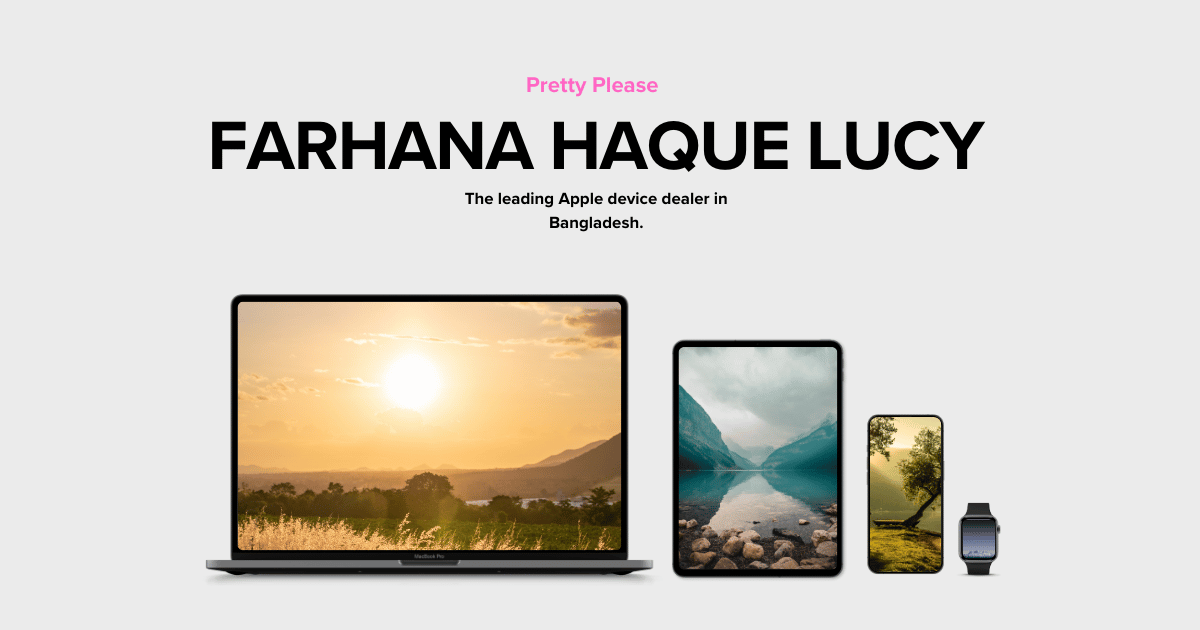
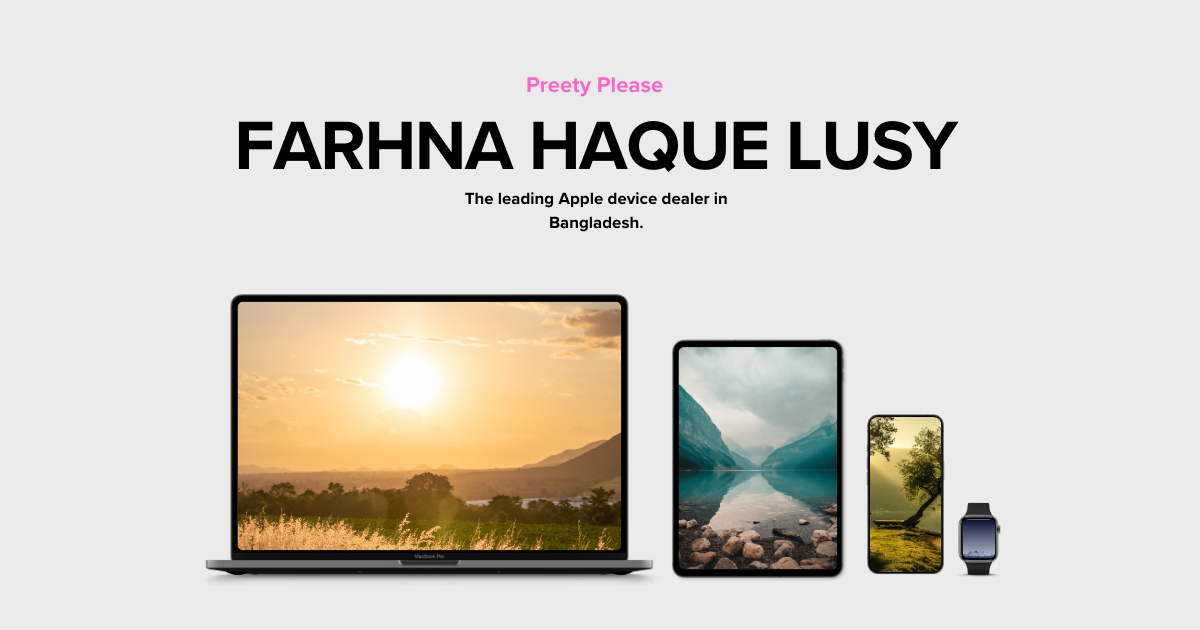
Fix: Spelling maistakes

Changed region(s): [[0.1542, 0.181, 0.8325, 0.2714], [0.4625, 0.1206, 0.555, 0.1508], [0.8017, 0.8143, 0.8325, 0.8444]]

diff --git a/app/disclaimer/page.tsx b/app/disclaimer/page.tsx
@@ -10,7 +10,7 @@ export default function DisclaimerPage() {
         <h1 className="text-2xl sm:text-3xl font-bold text-gray-800 mb-4">Disclaimer</h1>
 
         <p className="text-gray-700 mb-4">
-          The names <strong>Farhana Haque Lucy</strong> and <strong>Pretty Please</strong> used on this website refer to fictional characters and entities created solely for illustrative and awareness purposes.
+          The names <strong>Farhna Haque Lusy</strong> and <strong>Preety Please</strong> used on this website refer to fictional characters and entities created solely for illustrative and awareness purposes.
         </p>
         <p className="text-gray-700 mb-4">
           These names are not based on any real persons, businesses, or organizations. Any resemblance to actual individuals, companies, or events is purely coincidental and unintentional.
@@ -33,7 +33,7 @@ export default function DisclaimerPage() {
         </p>
         <p className="text-gray-700 mb-4">By visiting and using this website, you acknowledge and agree that:</p>
         <ul className="list-disc pl-6 text-gray-700 space-y-1">
-          <li>The names Farhana Haque Lucy and Pretty Please are fictional</li>
+          <li>The names Farhna Haque Lusy and Preety Please are fictional</li>
           <li>The displayed information is for awareness purposes only</li>
           <li>This platform bears no responsibility for assumptions, interpretations, or misuse of the data</li>
         </ul>

diff --git a/app/page.tsx b/app/page.tsx
@@ -144,10 +144,10 @@ export default function Home() {
         {/* Header */}
         <div className="text-center mb-6 sm:mb-8 md:mb-12">
           <h1 className="text-2xl sm:text-3xl md:text-4xl lg:text-5xl font-bold text-red-700 mb-3 sm:mb-4 leading-tight px-2">
-            আপনি ফারহানা হক লুসি এর কাছে থেকে কত টাকা পাবেন
+            আপনি ফারহনা হক লুসি এর কাছে থেকে কত টাকা পাবেন
           </h1>
           <p className="text-sm sm:text-base md:text-lg text-gray-600 max-w-2xl mx-auto px-3 leading-relaxed">
-            যদি আপনার ফারহানা হক লুসির কাছে টাকা পাওনা থাকে, অনুগ্রহ করে আপনার তথ্য আমাদের সাথে শেয়ার করুন। 
+            যদি আপনার ফারহনা হক লুসির কাছে টাকা পাওনা থাকে, অনুগ্রহ করে আপনার তথ্য আমাদের সাথে শেয়ার করুন। 
             আসুন, আমরা সবাই মিলে জেনে নেই কতজন মানুষ এভাবে ক্ষতিগ্রস্ত হয়েছেন।
           </p>
         </div>

diff --git a/app/layout.tsx b/app/layout.tsx
@@ -16,8 +16,8 @@ const geistMono = Geist_Mono({
 
 export const metadata: Metadata = {
   metadataBase: new URL('https://prettyplease.vercel.app/'), // Replace with your actual domain
-  title: "ফারহানা হক লুসি - ক্ষতিগ্রস্তদের তথ্য সংগ্রহ",
-  description: "ফারহানা আখতার লুসি এর  শিকার ব্যক্তিদের তথ্য সংগ্রহ এবং মোট ক্ষতির হিসাব",
+  title: "ফারহনা হক লুসি - ক্ষতিগ্রস্তদের তথ্য সংগ্রহ",
+  description: "ফারহনা হক লুসি এর  শিকার ব্যক্তিদের তথ্য সংগ্রহ এবং মোট ক্ষতির হিসাব",
 };
 
 export default function RootLayout({

diff --git a/app/data/page.tsx b/app/data/page.tsx
@@ -157,7 +157,7 @@ export default function DataPage() {
         {/* Header */}
         <div className="text-center mb-6 sm:mb-8">
           <h1 className="text-2xl sm:text-3xl md:text-4xl font-bold text-red-700 mb-3 sm:mb-4">
-            ফারহানা হক লুসি - ভিকটিম ডেটা
+            ফারহনা হক লুসি - ভিকটিম ডেটা
           </h1>
           <p className="text-sm sm:text-base text-gray-600 max-w-2xl mx-auto">
             সমস্ত জমাকৃত তথ্যের বিস্তারিত তালিকা
